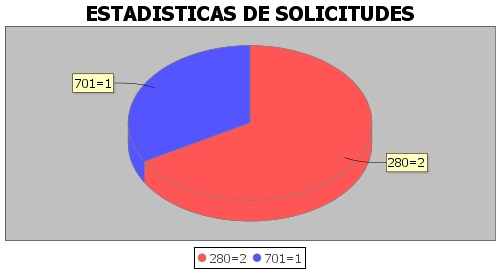
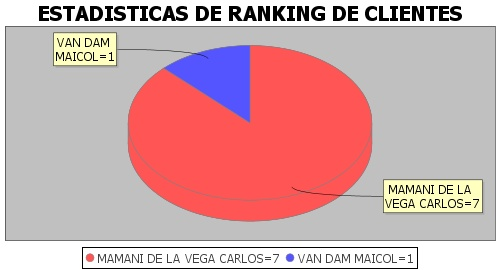
todo terminado, falta revision.

diff --git a/src/Utils/AyudaComandos.java b/src/Utils/AyudaComandos.java
@@ -15,32 +15,41 @@ import javax.swing.table.DefaultTableModel;
  * @author Mijael
  */
 public class AyudaComandos {
-    List<AyudaEntity> list=new ArrayList<>();
 
-    public AyudaComandos() {        
-        list.add(new AyudaEntity("INSERTAR ACTIVIDAD","Nombre: String<br>Codigo: Integer<br>Descripcion: String","Comando para insertar una actividad.","INSERTAR_ACTIVIDAD(Nombre,Codigo,Descripcion)"));
-        list.add(new AyudaEntity("INSERTAR PLANO","SolicitudId: Integer<br>Descripcion: String","Comando para insertar un plano.","INSERTAR_PLANO(SolicitudId,Descripcion)"));
-        list.add(new AyudaEntity("INSERTAR MARCA","SolicitudId: Integer<br>Descripcion: String","Comando para insertar una marca.","INSERTAR_MARCA(SolicitudId,Descripcion)"));
-        list.add(new AyudaEntity("INSERTAR TITULO","SolicitudId: Integer<br>Descripcion: String","Comando para insertar un titulo.","INSERTAR_TITULO(SolicitudId,Descripcion)"));
-        list.add(new AyudaEntity("INSERTAR RUBRO","Nombre: String<br>Codigo: Integer<br>Descripcion: String","Comando para insertar un rubro.","INSERTAR_RUBRO(Nombre,Descripcion)"));
-        list.add(new AyudaEntity("INSERTAR DETALLE RUBRO","RubroId: Integer<br>Codigo: Integer<br>Nombre: String","Comando para insertar un detalle rubro.","INSERTAR_DETALLERUBRO(RubroId,Codigo,Nombre)"));
-        list.add(new AyudaEntity("INSERTAR CLIENTE","CI: Integer<br>Nombre: String<br>ApellidoPaterno: String<br>ApellidoMaterno: String<br>Telefono: String<br>Email: String","Comando para insertar un cliente.","INSERTAR_CLIENTE(CI,Nombre,ApellidoPat,ApellidoMat,Telefono,Email)"));
-        list.add(new AyudaEntity("INSERTAR PERSONAL","CI: Integer<br>Nombre: String<br>ApellidoPaterno: String<br>ApellidoMaterno: String<br>Telefono: String<br>Email: String<br>Nick: String<br>Contrasena: String ","Comando para insertar un personal.","INSERTAR_PERSONAL(CI,Nombre,ApellidoPat,ApellidoMat,Telefono,Email,Nick,Contrasena)"));
-        list.add(new AyudaEntity("INSERTAR UBICACION","UbicacionId: Integer<br>Nombre: String<br>Tipo: Enum (Departamento,Provincia,Municipio,Sitio,Zona,Subzona)","Comando para insertar una ubicacion.","INSERTAR_UBICACION(UbicacionId,Nombre,Tipo)"));
-        list.add(new AyudaEntity("INSERTAR SOLICITUD280","ActividadId: Int<br>ClienteId: Integer<br>PersonalId: Integer<br>TituloId: Integer<br>UbicacionId: Integer<br>NroOrden: String<br>Gestion: Integer<br>NroHectareas: Double<br>FechaSolicitud: Date (yyyy-MM-dd)<br>NitDependencia: String<br>NroDocumento: String<br>NroBoletaPago: String","Comando para insertar una solicitud 280.","INSERTAR_SOLICITUD280(ActividadId,ClienteId,PersonalId,TituloId,UbicacionId,NroOrden,Gestion,NroHectareas,FechaSolicitud)"));
-        list.add(new AyudaEntity("INSERTAR SOLICITUD701","ActividadId: Int<br>ClienteId: Integer<br>PersonalId: Integer<br>TituloId: Integer<br>UbicacionId: Integer<br>NroOrden: String<br>Gestion: Integer<br>NroHectareas: Double<br>FechaSolicitud: Date (yyyy-MM-dd)<br>DDjjOriginal: Integer<br>Folio: Integer<br>NroTituloPropiedad: String","Comando para insertar una solicitud 701.","INSERTAR_SOLICITUD701(ActividadId,ClienteId,PersonalId,TituloId,UbicacionId,NroOrden,Gestion,NroHectareas,FechaSolicitud,ddjjOriginal,Folio,NroTituloPropiedad)"));
-        list.add(new AyudaEntity("INSERTAR CLIENTE SOLICITUD701","DetalleRubroId: Integer<br>Solicitud701Id: Integer<br>Valor: Double","Comando para insertar un detalle entre cliente y solicitud701.","INSERTAR_CLIENTESOLICITUD701(DetalleRubroId,Solicitud701Id,Valor)"));
+    List<AyudaEntity> list = new ArrayList<>();
+
+    public AyudaComandos() {
+        list.add(new AyudaEntity("INSERTAR ACTIVIDAD", "Nombre: String<br>Codigo: Integer<br>Descripcion: String", "Comando para insertar una actividad.", "INSERTAR_ACTIVIDAD(Nombre,Codigo,Descripcion)", "INSERTAR_ACTIVIDAD(Nombre,Codigo,Descripcion)"));
+        list.add(new AyudaEntity("INSERTAR PLANO", "SolicitudId: Integer<br>Descripcion: String", "Comando para insertar un plano.", "INSERTAR_PLANO(SolicitudId,Descripcion)", "INSERTAR_PLANO(SolicitudId,Descripcion)"));
+        list.add(new AyudaEntity("INSERTAR MARCA", "SolicitudId: Integer<br>Descripcion: String", "Comando para insertar una marca.", "INSERTAR_MARCA(SolicitudId,Descripcion)", "INSERTAR_MARCA(SolicitudId,Descripcion)"));
+        list.add(new AyudaEntity("INSERTAR TITULO", "SolicitudId: Integer<br>Descripcion: String", "Comando para insertar un titulo.", "INSERTAR_TITULO(SolicitudId,Descripcion)", "INSERTAR_TITULO(SolicitudId,Descripcion)"));
+        list.add(new AyudaEntity("INSERTAR RUBRO", "Nombre: String<br>Codigo: Integer<br>Descripcion: String", "Comando para insertar un rubro.", "INSERTAR_RUBRO(Nombre,Descripcion)", "INSERTAR_RUBRO(Nombre,Descripcion)"));
+        list.add(new AyudaEntity("INSERTAR DETALLE RUBRO", "RubroId: Integer<br>Codigo: Integer<br>Nombre: String", "Comando para insertar un detalle rubro.", "INSERTAR_DETALLERUBRO(RubroId,Codigo,Nombre)", "INSERTAR_DETALLERUBRO(RubroId,Codigo,Nombre)"));
+        list.add(new AyudaEntity("INSERTAR CLIENTE", "CI: Integer<br>Nombre: String<br>ApellidoPaterno: String<br>ApellidoMaterno: String<br>Telefono: String<br>Email: String", "Comando para insertar un cliente.", "INSERTAR_CLIENTE(CI,Nombre,ApellidoPat,ApellidoMat,Telefono,Email)", "INSERTAR_CLIENTE(CI,Nombre,ApellidoPat,ApellidoMat,Telefono,Email)"));
+        list.add(new AyudaEntity("INSERTAR PERSONAL", "CI: Integer<br>Nombre: String<br>ApellidoPaterno: String<br>ApellidoMaterno: String<br>Telefono: String<br>Email: String<br>Nick: String<br>Contrasena: String ", "Comando para insertar un personal.", "INSERTAR_PERSONAL(CI,Nombre,ApellidoPat,ApellidoMat,<br>Telefono,Email,Nick,Contrasena)", "INSERTAR_PERSONAL(CI,Nombre,ApellidoPat,ApellidoMat,Telefono,Email,Nick,Contrasena)"));
+        list.add(new AyudaEntity("INSERTAR UBICACION", "UbicacionId: Integer<br>Nombre: String<br>Tipo: Enum (Departamento,Provincia,<br>Municipio,Sitio,Zona,Subzona)", "Comando para insertar una ubicacion.", "INSERTAR_UBICACION(UbicacionId,Nombre,Tipo)", "INSERTAR_UBICACION(UbicacionId,Nombre,Tipo)"));
+        list.add(new AyudaEntity("INSERTAR SOLICITUD280", "ActividadId: Int<br>ClienteId: Integer<br>PersonalId: Integer<br>TituloId: Integer<br>UbicacionId: Integer<br>NroOrden: String<br>Gestion: Integer<br>NroHectareas: Double<br>FechaSolicitud: Date (yyyy-MM-dd)<br>NitDependencia: String<br>NroDocumento: String<br>NroBoletaPago: String", "Comando para insertar una solicitud 280.", "INSERTAR_SOLICITUD280(ActividadId,ClienteId,PersonalId,<br>TituloId,UbicacionId,NroOrden,Gestion,NroHectareas,FechaSolicitud)", "INSERTAR_SOLICITUD280(ActividadId,ClienteId,PersonalId,TituloId,UbicacionId,NroOrden,Gestion,NroHectareas,FechaSolicitud)"));
+        list.add(new AyudaEntity("INSERTAR SOLICITUD701", "ActividadId: Int<br>ClienteId: Integer<br>PersonalId: Integer<br>TituloId: Integer<br>UbicacionId: Integer<br>NroOrden: String<br>Gestion: Integer<br>NroHectareas: Double<br>FechaSolicitud: Date (yyyy-MM-dd)<br>DDjjOriginal: Integer<br>Folio: Integer<br>NroTituloPropiedad: String", "Comando para insertar una solicitud 701.", "INSERTAR_SOLICITUD701(ActividadId,ClienteId,PersonalId,<br>TituloId,UbicacionId,NroOrden,Gestion,NroHectareas,<br>FechaSolicitud,ddjjOriginal,Folio,NroTituloPropiedad)", "INSERTAR_SOLICITUD701(ActividadId,ClienteId,PersonalId,TituloId,UbicacionId,NroOrden,Gestion,NroHectareas,FechaSolicitud,ddjjOriginal,Folio,NroTituloPropiedad)"));
+        list.add(new AyudaEntity("INSERTAR CLIENTE SOLICITUD701", "DetalleRubroId: Integer<br>Solicitud701Id: Integer<br>Valor: Double", "Comando para insertar un detalle entre cliente y solicitud701.", "INSERTAR_CLIENTESOLICITUD701(DetalleRubroId,Solicitud701Id,Valor)", "INSERTAR_CLIENTESOLICITUD701(DetalleRubroId,Solicitud701Id,Valor)"));
+        list.add(new AyudaEntity("REPORTE DE ACTIVIDADES", "Ninguno", "Comando para generar un reporte de actividades.", "RPT_ACTIVIDADES()", "RPT_ACTIVIDADES()"));
+        list.add(new AyudaEntity("REPORTE DE RUBROS", "Ninguno", "Comando para generar un reporte de rubros.", "RPT_RUBROS()", "RPT_RUBROS()"));
+        list.add(new AyudaEntity("REPORTE DE CLIENTES", "Ninguno", "Comando para generar un reporte de clientes.", "RPT_CLIENTES()", "RPT_CLIENTES()"));
+        list.add(new AyudaEntity("REPORTE DE PERSONALES", "Ninguno", "Comando para generar un reporte del personal que trabaja <br>en la empresa.", "RPT_PERSONALES()", "RPT_PERSONALES()"));
+        list.add(new AyudaEntity("REPORTE DE SOLICITUDES", "Ninguno", "Comando para generar un reporte de solicitudes.", "RPT_SOLICITUDES()", "RPT_SOLICITUDES()"));
+        list.add(new AyudaEntity("REPORTE EST. DE SOLICITUDES POR FECHA", "Desde: Date (yyyy-MM-dd)<br>Hasta: Date (yyyy-MM-dd)", "Comando para generar un grafico estadistico de solicitudes<br>realizadas en un rango de fechas.", "EST_SOLICITUDES_FECHAS(Desde,Hasta)", "EST_SOLICITUDES_FECHAS(Desde,Hasta)"));
+        list.add(new AyudaEntity("REPORTE EST. DE TOP DE CLIENTES", "Ninguno", "Comando para generar un grafico estadistico de top<br>de clientes que hicieron alguna solicitud.", "EST_CLIENTES_TOP()", "EST_CLIENTES_TOP()"));
     }
-    
-    public DefaultTableModel toTable(){
-        DefaultTableModel model=new DefaultTableModel(new Object[]{"OPERACION","PARAMETROS","DESCRIPCION","COMANDO"}, list.size());
+
+    public DefaultTableModel toTable() {
+        DefaultTableModel model = new DefaultTableModel(new Object[]{"OPERACION", "PARAMETROS", "DESCRIPCION", "COMANDO", "ENVIAR"}, list.size());
         model.setRowCount(0);
         list.forEach((entity) -> {
             model.addRow(new Object[]{
                 entity.getOperacion(),
                 entity.getParametros(),
                 entity.getDescripcion(),
-                entity.getComando()
+                entity.getComandoMuestra(),
+                "<a href=\"mailto:" + Constantes.MAIL_USERMAIL + "?Subject=" + entity.getComando() + "\">Usar comando</a>"
             });
         });
         return model;

diff --git a/src/Models/Socket/Mail.java b/src/Models/Socket/Mail.java
@@ -5,12 +5,16 @@
  */
 package Models.Socket;
 
+import java.io.File;
 import java.io.IOException;
 import java.nio.file.Files;
 import java.nio.file.Paths;
 import java.util.Date;
 import java.util.Properties;
+import javax.activation.DataHandler;
+import javax.activation.FileDataSource;
 import javax.mail.Authenticator;
+import javax.mail.BodyPart;
 import javax.mail.Message;
 import javax.mail.MessagingException;
 import javax.mail.PasswordAuthentication;
@@ -18,29 +22,38 @@ import javax.mail.Session;
 import javax.mail.Transport;
 import javax.mail.internet.AddressException;
 import javax.mail.internet.InternetAddress;
+import javax.mail.internet.MimeBodyPart;
 import javax.mail.internet.MimeMessage;
+import javax.mail.internet.MimeMultipart;
+
 /**
  *
  * @author fito3
  */
 public class Mail {
+
     public void sendHtmlEmail(String toAddress,
-            String subject, String message) throws AddressException,
+            String subject, String message, String pathChart) throws AddressException,
             MessagingException,
             IOException {
 
         // sets SMTP server properties
         Properties properties = new Properties();
-        properties.put("mail.smtp.host", "mail.ficct.uagrm.edu.bo");
-        properties.put("mail.smtp.port", 25);
-        properties.put("mail.smtp.auth", "false");
+        //properties.put("mail.smtp.host", "mail.ficct.uagrm.edu.bo");
+        //properties.put("mail.smtp.port", 25);
+        //properties.put("mail.smtp.auth", "false");
+        //properties.put("mail.smtp.starttls.enable", "true");
+        properties.put("mail.smtp.host", "smtp.gmail.com");
+        properties.put("mail.smtp.port", 587);
+        properties.put("mail.smtp.auth", "true");
         properties.put("mail.smtp.starttls.enable", "true");
 
         // creates a new session with an authenticator
         Authenticator auth = new Authenticator() {
             public PasswordAuthentication getPasswordAuthentication() {
                 //return new PasswordAuthentication("grupo06sc" + "@virtual.fcet.uagrm.edu.bo", "grupo06grupo06");
-                return new PasswordAuthentication("grupo06sc" + "@mail.ficct.uagrm.edu.bo", "grupo06grupo06");
+                //return new PasswordAuthentication("grupo06sc" + "@mail.ficct.uagrm.edu.bo", "grupo06grupo06");
+                return new PasswordAuthentication("imvb14" + "@gmail.com", "zulmfescworrkgms");
             }
         };
 
@@ -48,20 +61,44 @@ public class Mail {
 
         // creates a new e-mail message
         try {
-            Message msg = new MimeMessage(session);
-
+            //<editor-fold desc="Solo html">
+            //Message msg = new MimeMessage(session);
             //msg.setFrom(new InternetAddress("grupo06sc" + "@virtual.fcet.uagrm.edu.bo"));
-            msg.setFrom(new InternetAddress("grupo06sc" + "@mail.ficct.uagrm.edu.bo"));
-            InternetAddress[] toAddresses = {new InternetAddress(toAddress)};
-            msg.setRecipients(Message.RecipientType.TO, toAddresses);
-            msg.setSubject(subject);
-            msg.setSentDate(new Date());
-            // set plain text message
-            msg.setContent(message, "text/html");
-            //msg.setContent(new String(Files.readAllBytes(Paths.get("src/Models/Socket/test.txt"))), "text/html");
+            //msg.setFrom(new InternetAddress("grupo06sc" + "@mail.ficct.uagrm.edu.bo"));
+            //msg.setFrom(new InternetAddress("imvb14" + "@gmail.com"));
+            //InternetAddress[] toAddresses = {new InternetAddress(toAddress)};           
+            //msg.setRecipients(Message.RecipientType.TO, toAddresses);
+            //msg.setSubject(subject);
+            //msg.setSentDate(new Date());
+            //msg.setContent(message, "text/html");
+            //</editor-fold>
+
+            MimeMessage mime = new MimeMessage(session);
+            mime.setFrom(new InternetAddress("imvb14" + "@gmail.com"));
+            // Se rellenan los destinatarios
+            mime.addRecipient(Message.RecipientType.TO, new InternetAddress(toAddress));
+            // Se rellena el subject
+            mime.setSubject(subject);
+            // Se mete el texto y la foto adjunta.
+            BodyPart texto = new MimeBodyPart();
+            texto.setContent(message, "text/html");
+            MimeMultipart multiParte = new MimeMultipart();
+            multiParte.addBodyPart(texto);
+            if (!pathChart.isEmpty()) {
+                BodyPart adjunto = new MimeBodyPart();
+                try {
+                    adjunto.setDataHandler(new DataHandler(new FileDataSource(new File(pathChart))));
+                    multiParte.addBodyPart(adjunto);
+                } catch (Exception e) {
+                    System.out.println("Error: " + e.getMessage());
+                }
+                adjunto.setFileName("Grafico");
+            }
+            mime.setContent(multiParte);
+
             System.out.println("Envie MAIL: to=" + toAddress + " subject=" + subject + " data:" + message);
             // sends the e-mail
-            Transport.send(msg);
+            Transport.send(mime);
         } catch (MessagingException mex) {
             mex.printStackTrace();
         }

diff --git a/src/fegasacruz/Fegasacruz.java b/src/fegasacruz/Fegasacruz.java
@@ -41,26 +41,30 @@ public class Fegasacruz {
                     CommandManager commandManager = new CommandManager(asunto);
                     System.out.println("Asunto: " + asunto);
                     String from = clientPOP.getFrom(message);
+
                     commandManager.executeCommand(new ValidatorCommand() {
                         @Override
                         public void onSuccess() {
                             try {
                                 String html = "";
+                                String pathChart = "";
                                 switch (commandManager.getTipoComando()) {
                                     case Insercion:
                                         int idInserted = (int) commandManager.getResult().get("result");
                                         html = "EJECUTADO CORRECTAMENTE: LLAVE GENERADA=" + idInserted;
+                                        pathChart = "";
                                         break;
                                     case Reporte:
                                         html = Utils.dibujarTablawithHTML((DefaultTableModel) commandManager.getResult().get("result"));
+                                        pathChart = "";
                                         break;
                                     case Estadistica:
                                         PieChart chart = new PieChart("Ejemplo", commandManager.getNombreEstadistica(), (List<EstadisticaEntity>) commandManager.getResult().get("result"));
-                                        //html = Utils.dibujarTablawithHTML2((DefaultTableModel) commandManager.getResult().get("result"));
+                                        pathChart = "chart.jpg";
                                         break;
                                 }
                                 System.out.println(html);
-                                mailManager.sendHtmlEmail(from, "INFORME DE EJECUCION DEL COMANDO " + commandManager.getCommand(), html);
+                                mailManager.sendHtmlEmail(from, "INFORME DE EJECUCION DEL COMANDO " + commandManager.getCommand(), html, pathChart);
                             } catch (MessagingException | IOException ex) {
                                 Logger.getLogger(Fegasacruz.class.getName()).log(Level.SEVERE, null, ex);
                             }
@@ -70,7 +74,7 @@ public class Fegasacruz {
                         public void onError() {
                             try {
                                 String html = "Error al ejecutar el comando";
-                                mailManager.sendHtmlEmail(from, "INFORME DE EJECUCION DEL COMANDO " + commandManager.getCommand(), html);
+                                mailManager.sendHtmlEmail(from, "INFORME DE EJECUCION DEL COMANDO " + commandManager.getCommand(), html, "");
                             } catch (MessagingException | IOException ex) {
                                 Logger.getLogger(Fegasacruz.class.getName()).log(Level.SEVERE, null, ex);
                             }

diff --git a/src/fegasacruz/CommandManager.java b/src/fegasacruz/CommandManager.java
@@ -99,11 +99,11 @@ public class CommandManager {
             result.put("result", idInserted);
             //return result;
         }
-        args = command.substring(index + 1, index2);
-        command = command.substring(0, index).trim();
-        Object[] contents = args.split(",");
-        contents = quitarEspacios(contents);
         try {
+            args = command.substring(index + 1, index2);
+            command = command.substring(0, index).trim();
+            Object[] contents = args.split(",");
+            contents = quitarEspacios(contents);
             switch (command.toUpperCase()) {
                 case "AYUDA":
                     table = ayudaComandos.toTable();
@@ -157,7 +157,7 @@ public class CommandManager {
                     break;
                 case "INSERTAR_UBICACION":
                     try {
-                        UbicacionEntity ubicacionEntity = new UbicacionEntity(Integer.valueOf(contents[0].toString()), contents[1].toString(), UbicacionEntity.TIPO.valueOf(contents[2].toString()));
+                        UbicacionEntity ubicacionEntity = new UbicacionEntity(Integer.valueOf(contents[0].toString()), contents[1].toString(), UbicacionEntity.TIPO.valueOf(contents[2].toString().toUpperCase()));
                         ubicacionEntity.setEstado(Byte.valueOf("1"));
                         UbicacionModel ubicacionModel = new UbicacionModel(ubicacionEntity);
                         idInserted = ubicacionModel.insert();
@@ -260,6 +260,11 @@ public class CommandManager {
                     list = new SolicitudModel().findStadisticsByDates(contents[0].toString(), contents[1].toString());
                     tipoComando = TipoComando.Estadistica;
                     nombreEstadistica = "ESTADISTICAS DE SOLICITUDES";
+                    break;
+                case "EST_CLIENTES_TOP":
+                    list=new SolicitudModel().findStadisticsClientsTop();
+                    tipoComando=TipoComando.Estadistica;
+                    nombreEstadistica="ESTADISTICAS DE RANKING DE CLIENTES";
                     break;
                 default:
                     tipoComando = TipoComando.Desconocido;

diff --git a/src/Models/UbicacionModel.java b/src/Models/UbicacionModel.java
@@ -54,22 +54,22 @@ public class UbicacionModel extends Model<UbicacionEntity> {
         UbicacionEntity.TIPO tipo = null;
         switch (rs.getString("tipo")) {
             case "1":
-                tipo = UbicacionEntity.TIPO.Departamento;
+                tipo = UbicacionEntity.TIPO.DEPARTAMENTO;
                 break;
             case "2":
-                tipo = UbicacionEntity.TIPO.Provincia;
+                tipo = UbicacionEntity.TIPO.PROVINCIA;
                 break;
             case "3":
-                tipo = UbicacionEntity.TIPO.Municipio;
+                tipo = UbicacionEntity.TIPO.MUNICIPIO;
                 break;
             case "4":
-                tipo = UbicacionEntity.TIPO.Zona;
+                tipo = UbicacionEntity.TIPO.ZONA;
                 break;
             case "5":
-                tipo = UbicacionEntity.TIPO.Subzona;
+                tipo = UbicacionEntity.TIPO.SUBZONA;
                 break;
             case "6":
-                tipo = UbicacionEntity.TIPO.Sitio;
+                tipo = UbicacionEntity.TIPO.SITIO;
                 break;
         }
         entity = new UbicacionEntity(

diff --git a/src/Entities/AyudaEntity.java b/src/Entities/AyudaEntity.java
@@ -10,15 +10,18 @@ package Entities;
  * @author Mijael
  */
 public class AyudaEntity {
+
     private String operacion;
     private String parametros;
     private String descripcion;
+    private String comandoMuestra;
     private String comando;
 
-    public AyudaEntity(String operacion,String parametros, String descripcion, String comando) {
+    public AyudaEntity(String operacion, String parametros, String descripcion, String comandoMuestra, String comando) {
         this.operacion = operacion;
-        this.parametros=parametros;
+        this.parametros = parametros;
         this.descripcion = descripcion;
+        this.comandoMuestra = comandoMuestra;
         this.comando = comando;
     }
 
@@ -54,6 +57,12 @@ public class AyudaEntity {
         this.comando = comando;
     }
 
-    
-    
+    public String getComandoMuestra() {
+        return comandoMuestra;
+    }
+
+    public void setComandoMuestra(String comandoMuestra) {
+        this.comandoMuestra = comandoMuestra;
+    }
+
 }

diff --git a/src/Entities/UbicacionEntity.java b/src/Entities/UbicacionEntity.java
@@ -14,32 +14,32 @@ import java.sql.Timestamp;
 public class UbicacionEntity {
     
     public static enum TIPO{
-        Departamento{
+        DEPARTAMENTO{
             @Override
             public String toString() {
                 return "1";
             }
-        },Provincia{
+        },PROVINCIA{
             @Override
             public String toString() {
                 return "2";
             }
-        },Municipio{
+        },MUNICIPIO{
             @Override
             public String toString() {
                 return "3";
             }
-        },Zona{
+        },ZONA{
             @Override
             public String toString() {
                 return "4";
             }
-        },Subzona{
+        },SUBZONA{
             @Override
             public String toString() {
                 return "5";
             }
-        },Sitio{
+        },SITIO{
             @Override
             public String toString() {
                 return "6";

diff --git a/src/Models/SolicitudModel.java b/src/Models/SolicitudModel.java
@@ -174,4 +174,14 @@ public class SolicitudModel extends Model<SolicitudEntity> {
         }
         return model;
     }
+
+    public List<EstadisticaEntity> findStadisticsClientsTop() {
+        String query = "select count(*)as value,concat(persona.apellido_pat,' ',persona.apellido_mat,' ',persona.nombre)as label\n"
+                + "from solicitud, persona\n"
+                + "where cliente_id=persona.id\n"
+                + "group by persona.id";
+        System.out.println(query);
+        List<EstadisticaEntity> estadisticas = new EstadisticaModel().findListByQuery(query);
+        return estadisticas;
+    }
 }
